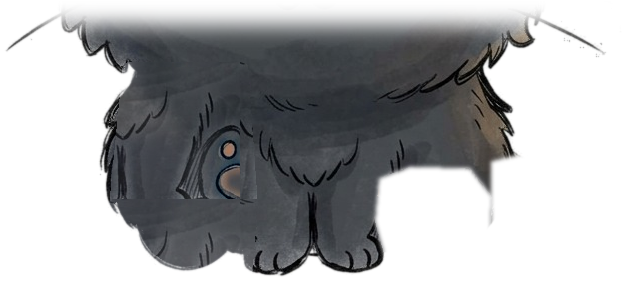
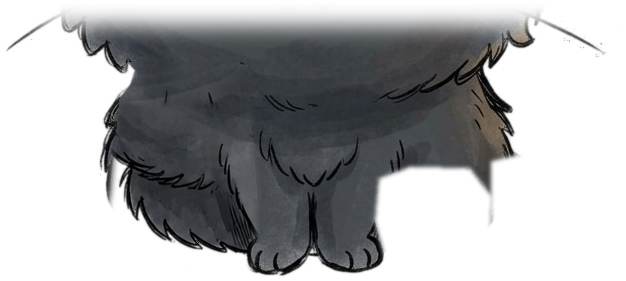
Constant-weight eye squash, body fur under the raised paw from a generated pose
Eye outline keeps its stroke weight while closing (centreline squash + normal offset),
the iris hides just before the lids meet, ring antialias recoloured to ink. The body
under the waving paw is taken from a model-generated raised-paw frame aligned to the
reference (align_gen.py), upscaled and matted, instead of a cloned patch.

Claude-Session: https://claude.ai/code/session_01D2JwGYDgHUAFxubqxwssBM

Changed region(s): [[0.1518, 0.3701, 0.4249, 0.968]]

diff --git a/lib/mascot/puppet.ts b/lib/mascot/puppet.ts
@@ -310,25 +310,51 @@ export async function createMascot(el: HTMLElement, opts: MascotOptions = {}): P
   const eyes: Record<"L" | "R", Eye> = {} as Record<"L" | "R", Eye>;
   // состояние век на кадр: open 0..1, slant (наклон, внешний угол вниз при >0), happy — схлопывание к верхней дуге
   const lidState = { L: { open: 1, slant: 0, happy: 0 }, R: { open: 1, slant: 0, happy: 0 } };
+  /* Сплющивание глаза с постоянным весом штриха: точка раскладывается на положение вдоль
+     ОСЕВОЙ линии контура (угол) и отступ от неё (толщина). Осевая линия сжимается к линии
+     закрытия (нижняя треть; для «^» — верхняя), отступ возвращается по нормали сжатой кривой —
+     штрих не истончается, закрытый глаз = та же тушь одной толстой дугой. */
   const squash = (k: "L" | "R", x: number, y: number, out: { x: number; y: number }) => {
     const e = eyes[k];
     const st = lidState[k];
     const [cx, cy] = e.c;
+    const am = (e.rx + e.orx) / 2; // полуоси осевой линии штриха
+    const bm = (e.ry + e.ory) / 2;
+    const nx = (x - cx) / am;
+    const ny = (y - cy) / bm;
+    const r = Math.hypot(nx, ny) || 1e-6;
+    const th = Math.atan2(ny, nx);
+    const d = (r - 1) * ((am + bm) / 2); // отступ от осевой линии, px рисунка
+    const px = cx + Math.cos(th) * am;
+    const py = cy + Math.sin(th) * bm;
     const sl = st.slant * (k === "L" ? -1 : 1); // внешний угол: у L — слева, у R — справа
-    const kk = clamp(st.open + sl * ((x - cx) / e.orx), 0.02, 1);
-    // якорь — ВНУТРЕННИЙ край штриха: сам штрих (между внутренним и внешним краем) остаётся
-    // толстой дугой, а всё остальное схлопывается на него. Закрытый глаз = дуга той же туши.
-    if (st.happy > 0.001) {
-      // счастливый прищур «^»: всё, что ниже верхней дуги, подтягивается к ней
-      const top = cy - e.ry;
-      const kh = clamp(1 - st.happy, 0.02, 1);
-      out.x = x;
-      out.y = y <= top ? y : top + (y - top) * kh;
-      return;
-    }
-    const anchor = cy + e.ry; // нижняя дуга контура остаётся на месте
-    out.x = x;
-    out.y = y >= anchor ? y : anchor - (anchor - y) * kk;
+    const happy = st.happy > 0.001;
+    const open = happy ? 1 - st.happy : st.open;
+    const kk = clamp(open + sl * ((px - cx) / am), 0, 1);
+    // линия закрытия: нижняя треть (верхнее веко опускается), для «^» — верхняя треть
+    const yA = happy ? cy - 0.6 * bm : cy + 0.6 * bm;
+    const moving = happy ? py > yA : py < yA; // половина, которая едет к линии закрытия
+    const ks = 1 - 0.45 * (1 - kk); // «стоящая» половина чуть распрямляется, дуга остаётся
+    const qy = moving ? yA + (py - yA) * kk : yA + (py - yA) * ks;
+    const kEff = Math.max(moving ? kk : ks, 0.04);
+    // нормаль сжатого эллипса: n ∝ (cos/a, sin/(b·k))
+    const nnx = Math.cos(th) / am;
+    const nny = Math.sin(th) / (bm * kEff);
+    const nl = Math.hypot(nnx, nny) || 1e-6;
+    out.x = px + (d * nnx) / nl;
+    out.y = qy + (d * nny) / nl;
+  };
+  /** та же деформация для маски: внутренний край штриха, при закрытии — пусто */
+  const squashMask = (k: "L" | "R", x: number, y: number, out: { x: number; y: number }) => {
+    // радужка прячется чуть раньше, чем штрихи сомкнутся: щели между веками не бывает
+    const st = lidState[k];
+    const open = st.happy > 0.001 ? 1 - st.happy : st.open;
+    const saved = { open: st.open, happy: st.happy };
+    const m = clamp((open - 0.2) / 0.8, 0, 1);
+    if (st.happy > 0.001) st.happy = 1 - m; else st.open = m;
+    squash(k, x, y, out);
+    st.open = saved.open; st.happy = saved.happy;
+    if (m <= 0) { out.x = eyes[k].c[0]; out.y = eyes[k].c[1]; } // вырожденный полигон — радужки не видно
   };
   for (const k of ["L", "R"] as const) {
     const e = rig.eyes[k];
@@ -357,9 +383,9 @@ export async function createMascot(el: HTMLElement, opts: MascotOptions = {}): P
       const N = 40;
       for (let i = 0; i <= N; i++) {
         const a = (i / N) * Math.PI * 2;
-        const x = e.c[0] + Math.cos(a) * (e.rx + 1);
-        const y = e.c[1] + Math.sin(a) * (e.ry + 1);
-        squash(k, x, y, maskPt);
+        const x = e.c[0] + Math.cos(a) * (e.rx + 2);
+        const y = e.c[1] + Math.sin(a) * (e.ry + 2);
+        squashMask(k, x, y, maskPt);
         const wx = m.a * maskPt.x + m.c * maskPt.y + m.tx;
         const wy = m.b * maskPt.x + m.d * maskPt.y + m.ty;
         if (i === 0) g.moveTo(wx, wy); else g.lineTo(wx, wy);

diff --git a/design/mascot/align_gen.py b/design/mascot/align_gen.py
@@ -1,0 +1,67 @@
+# Выравнивание сгенерированного кадра по оригиналу (масштаб + сдвиг по силуэту, FFT-корреляция)
+# → design/mascot/gen/<имя>-aligned.png (1264×848 на белом). Дальше upscale.py ×4 и parts.py
+# берут из него то, чего в оригинале нет (например, мех тела под поднятой лапой).
+#   python3 design/mascot/align_gen.py wave-pose
+import os, sys
+import numpy as np
+from PIL import Image
+
+ROOT = os.path.dirname(os.path.dirname(os.path.dirname(os.path.abspath(__file__))))
+REF = os.path.join(ROOT, "design/mascot/reference.png")
+GEN = os.path.join(ROOT, "design/mascot/gen")
+ref = Image.open(REF).convert("RGB")
+W, H = ref.size
+
+
+def mask(im, down=1):
+    a = np.asarray(im.convert("RGB")).astype(np.float32)
+    m = (a.min(2) < 205).astype(np.float32)
+    if down > 1:
+        m = np.asarray(Image.fromarray((m * 255).astype(np.uint8)).resize((m.shape[1] // down, m.shape[0] // down), Image.BILINEAR)).astype(np.float32) / 255
+    return m
+
+
+def best_shift(a, b):
+    h, w = a.shape
+    pb = np.zeros_like(a)
+    hh, ww = min(h, b.shape[0]), min(w, b.shape[1])
+    pb[:hh, :ww] = b[:hh, :ww]
+    c = np.fft.irfft2(np.fft.rfft2(a - a.mean()) * np.conj(np.fft.rfft2(pb - pb.mean())), s=a.shape)
+    y, x = np.unravel_index(np.argmax(c), c.shape)
+    if y > h // 2: y -= h
+    if x > w // 2: x -= w
+    return x, y, c.max()
+
+
+def register(gen, head_only=True):
+    """совмещение по голове (глаза, нос, уши): тело в кадре может отличаться (поза)"""
+    d = 2
+    ra = mask(ref, d)
+    if head_only:
+        ra[int(600 / d):, :] = 0
+    best = None
+    for s in np.linspace(0.76, 0.9, 57):
+        g = gen.resize((int(gen.width * s), int(gen.height * s)), Image.LANCZOS)
+        gm = mask(g, d)
+        x, y, sc = best_shift(ra, gm)
+        if best is None or sc > best[0]:
+            best = (sc, s, x * d, y * d)
+    return best[1], best[2], best[3]
+
+
+name = sys.argv[1]
+gen = Image.open(os.path.join(GEN, name + ".png")).convert("RGB")
+s, dx, dy = register(gen)
+g = gen.resize((int(gen.width * s), int(gen.height * s)), Image.LANCZOS)
+canvas = Image.new("RGB", (W, H), (255, 255, 255))
+canvas.paste(g, (-dx, -dy))
+canvas.save(os.path.join(GEN, name + "-aligned.png"))
+a = np.asarray(ref).astype(int); b = np.asarray(canvas).astype(int)
+box = (430, 330, 800, 520)
+print("scale %.3f shift (%d,%d) face diff %.1f" % (s, dx, dy, np.abs(a[box[1]:box[3], box[0]:box[2]] - b[box[1]:box[3], box[0]:box[2]]).mean()))
+# контроль глазами: оригинал | выровненный кадр | разница
+diff = Image.fromarray(np.clip(np.abs(a - b).mean(2) * 3, 0, 255).astype(np.uint8)).convert("RGB")
+sheet = Image.new("RGB", (W * 3 // 2 + 20, H // 2), (255, 255, 255))
+for i, im in enumerate((ref, canvas, diff)):
+    sheet.paste(im.resize((W // 2, H // 2)), (i * (W // 2 + 10), 0))
+sheet.save("/tmp/claude-0/shots/align_" + name + ".png")

diff --git a/design/mascot/parts.py b/design/mascot/parts.py
@@ -174,7 +174,10 @@ for k, (cx, cy) in EYES.items():
     sat_ = rgb.max(2) - rgb.min(2)
     ink_px = zone & (lum < 120) & ~((sat_ > 60) & (rgb[..., 0] > rgb[..., 1] + 30))
     ring_a = soft(ndi.binary_dilation(ink_px, iterations=S), 0.6) * zone
-    add('ring_' + k, rgb, alpha * ring_a, 13)
+    # зеленоватый антиалиас у внутреннего края — в цвет туши: при смыкании он не даёт зелёной кромки
+    ink_c = np.percentile(rgb[ink_px & (lum < 60)], 30, axis=0)
+    ring_rgb = np.where((((rgb[..., 1] > rgb[..., 0] + 15) | (lum > 95)) & zone)[..., None], ink_c, rgb)
+    add('ring_' + k, ring_rgb, alpha * ring_a, 13)
     add('iris_' + k, fill_rgb, alpha * soft(ell(cx, cy, RX - 3, RY - 3), 0.7), 10)
     pupil_rgb = np.where(ndi.binary_dilation(shine, iterations=S)[..., None], rgb[pupil & ~shine].mean(0), rgb)
     add('pupil_' + k, pupil_rgb, soft(ndi.binary_dilation(pupil | shine, iterations=S) & inner, 0.8), 11)
@@ -211,7 +214,19 @@ r_, a_ = stroke(lambda d: d.arc([sc(mx - 24), sc(my - 4), sc(mx + 24), sc(my + 2
 arm_hole = ARM > 0.5
 pawR_hole = PAW_R > 0.5
 body_rgb = clone(rgb, arm_hole | pawR_hole, FUR_OK & ~arm_hole & ~pawR_hole & (BODY_ZONE > 0.5), tex=(600, 600, 740, 740))  # зерно — мех живота
-add('body', body_rgb, alpha * notail * BODY_ZONE * (1 - PAW_R), 4)
+body_alpha = alpha.copy()
+# Мех тела под поднятой лапой — не клон, а кадр, сгенерированный по оригиналу с поднятой лапой
+# (gen_frames.py «wave-pose» → align_gen.py → upscale.py → matte.py): настоящий мех и настоящий
+# край силуэта там, где в оригинале была лапа. Верх зоны (под грудкой) остаётся клоном.
+WAVE = os.path.join(ROOT, 'design/mascot/export/wave-pose%s.png' % ('' if S == 1 else f'@{S}x'))
+if os.path.exists(WAVE):
+    wv = np.asarray(Image.open(WAVE).convert('RGBA')).astype(np.float32)
+    zone_m = (ARM > 0.5) & (yy > sc(596))
+    f = soft(zone_m, 3)[..., None]
+    body_rgb = body_rgb * (1 - f) + wv[..., :3] * f
+    body_alpha = alpha * (1 - f[..., 0]) + (wv[..., 3] / 255) * f[..., 0]
+    print('body patch from generated wave pose')
+add('body', body_rgb, body_alpha * notail * BODY_ZONE * (1 - PAW_R), 4)
 add('paw_R', rgb, alpha * PAW_R, 5)
 # нога: столбик над лапкой дорисован мехом тела (под грудкой), лапка — родная
 leg_zone = ARM * (1 - PAW_L)

diff --git a/design/mascot/upscale.py b/design/mascot/upscale.py
@@ -2,7 +2,7 @@
 # (веса x4plus_anime_6B — для рисованной графики), на CPU, без зависимостей basicsr/realesrgan:
 # архитектура RRDBNet записана здесь целиком. Увеличивается ОРИГИНАЛ на белом, потом
 # вырезка matte.py при S=4 — иначе SR размажет альфу и цвета кромки.
-#   python3 design/mascot/upscale.py <RealESRGAN_x4plus_anime_6B.pth> → design/mascot/export/reference@4x.png
+#   python3 design/mascot/upscale.py <RealESRGAN_x4plus_anime_6B.pth> [вход.png] [выход.png]  (по умолчанию reference → export/reference@4x.png)
 import os, sys, numpy as np, torch, torch.nn as nn, torch.nn.functional as F
 from PIL import Image
 ROOT = os.path.dirname(os.path.dirname(os.path.dirname(os.path.abspath(__file__))))
@@ -38,7 +38,9 @@ class RRDBNet(nn.Module):
 
 sd = torch.load(sys.argv[1], map_location='cpu'); sd = sd.get('params_ema', sd.get('params', sd))
 net = RRDBNet(); net.load_state_dict(sd, strict=True); net.eval()
-im = np.asarray(Image.open(os.path.join(ROOT, 'design/mascot/reference.png')).convert('RGB')).astype(np.float32) / 255
+SRC = sys.argv[2] if len(sys.argv) > 2 else os.path.join(ROOT, 'design/mascot/reference.png')
+DST = sys.argv[3] if len(sys.argv) > 3 else os.path.join(ROOT, 'design/mascot/export/reference@4x.png')
+im = np.asarray(Image.open(SRC).convert('RGB')).astype(np.float32) / 255
 H, W, _ = im.shape; T, P = 256, 16  # тайлы с нахлёстом, чтобы не съесть память
 out = np.zeros((H * 4, W * 4, 3), np.float32)
 x = torch.from_numpy(im).permute(2, 0, 1)[None]
@@ -50,5 +52,5 @@ with torch.no_grad():
             o = net(x[:, :, py0:py1, px0:px1])[0].permute(1, 2, 0).numpy()
             out[y0 * 4:y1 * 4, x0 * 4:x1 * 4] = o[(y0 - py0) * 4:(y1 - py0) * 4, (x0 - px0) * 4:(x1 - px0) * 4]
         print('row', y0, flush=True)
-Image.fromarray((np.clip(out, 0, 1) * 255).round().astype(np.uint8)).save(os.path.join(ROOT, 'design/mascot/export/reference@4x.png'))
+Image.fromarray((np.clip(out, 0, 1) * 255).round().astype(np.uint8)).save(DST)
 print('ok', out.shape)
